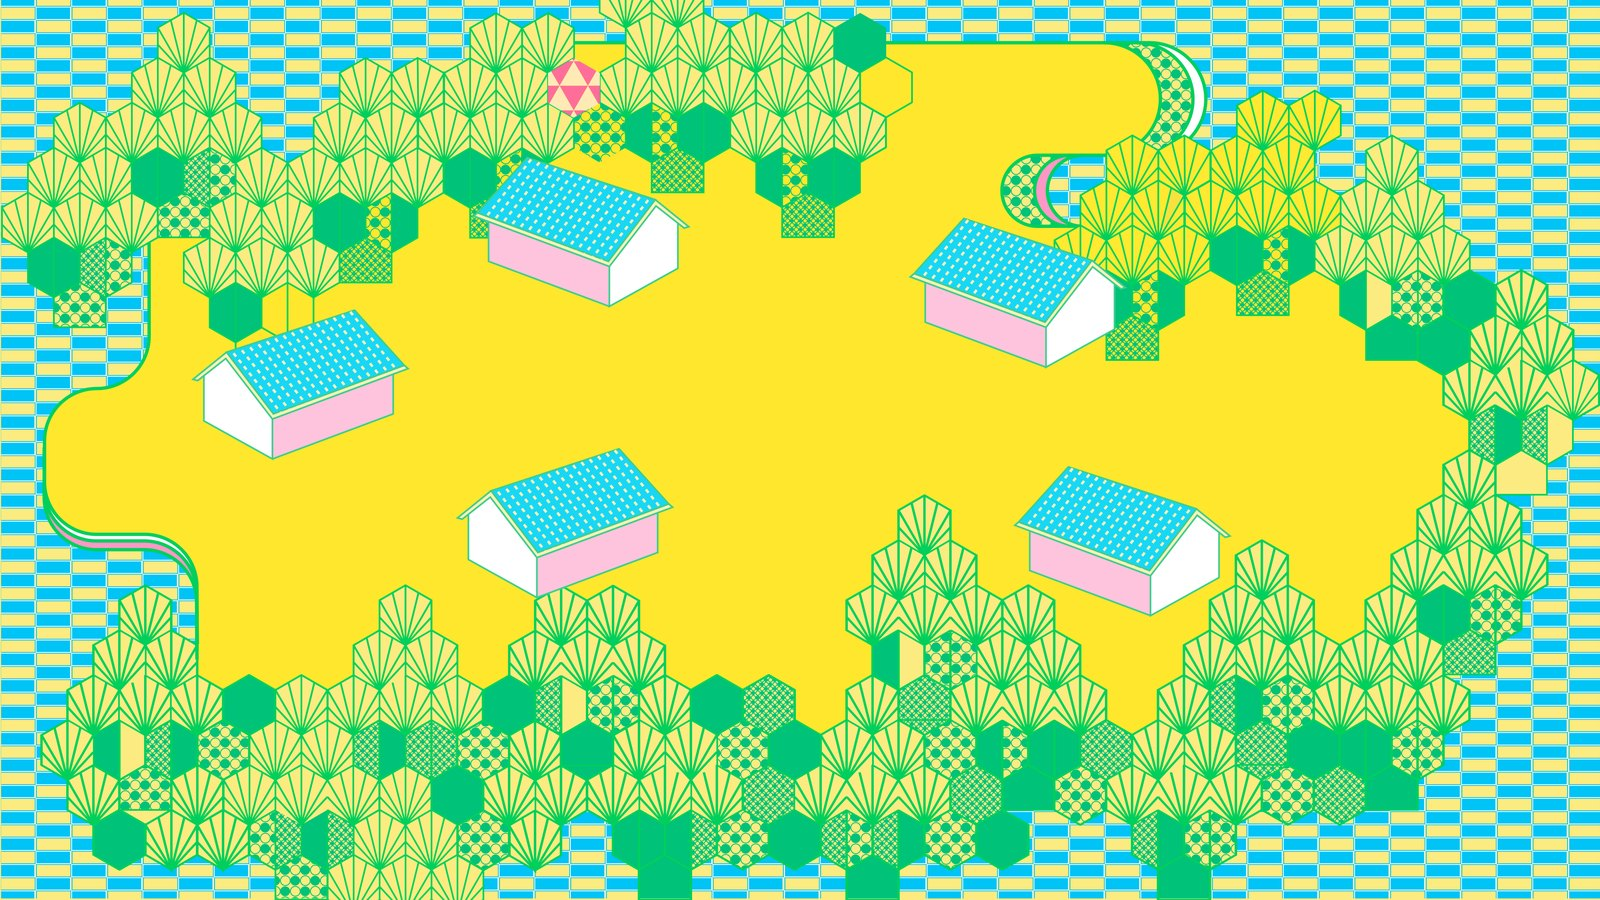
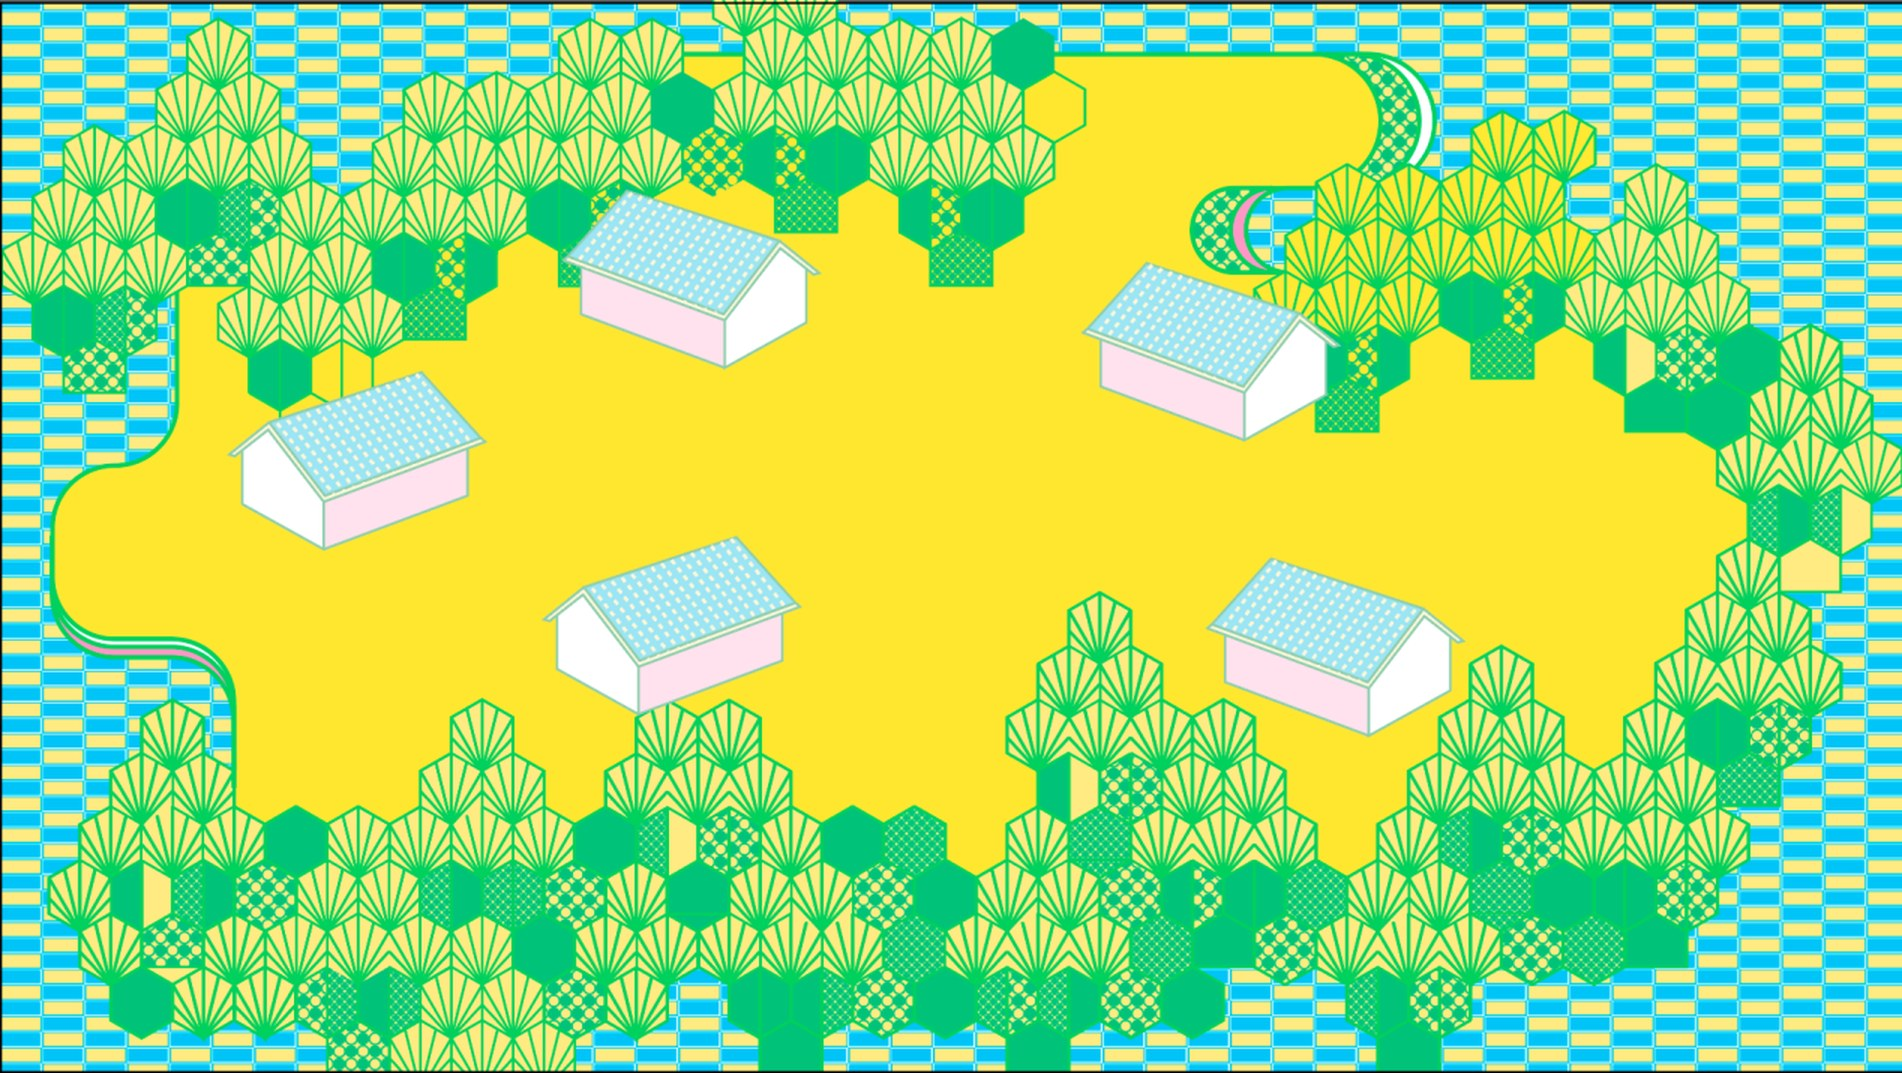
按修改意见调整：采药棋盘全屏化、圆球药泥、序章花纹底、村庄鲜艳背景
- 采药棋盘去掉整条顶栏，棋盘满屏显示，改为左上目标+右上计数轻量胶囊，骰子随参考稿右下角
- 药泥由绿色泥团改为蜂蜜色光泽圆球（白描边+碎屑点缀），加入罐后轻微浮动
- 序章保生大帝场景背景换为粉色四瓣花纹底
- 村庄场景（序章/剧情/结尾）换为鲜艳配色与蓝青条纹边框
- 素材版本号 v5，避免旧缓存

diff --git a/js/scenes/forage.js b/js/scenes/forage.js
@@ -1,10 +1,29 @@
 /* 交互 0：掷骰子采药棋盘（15 格蛇形山路；第 8 格遇虎、13 格遇龙、14 格出山） */
 const FORAGE_SX = W / 1440;                       // 参考稿 1440 宽 → 1334
-const FORAGE_DY = 20;                             // 整体下移，避开顶栏
+const FORAGE_DY = 0;                              // 参考稿即全屏棋盘，不再下移
 const cellPos = n => {                            // 参考稿坐标：x=254+col*232.5, y=[227,449,675]
   const row = Math.floor(n / 5), col = row === 1 ? 4 - n % 5 : n % 5;
   return { x: (254 + col * 232.5) * FORAGE_SX, y: ([227, 449, 675][row] - 60) * FORAGE_SX + FORAGE_DY };
 };
+/* 轻量状态胶囊：参考稿为满屏棋盘，不用整条顶栏，只留左上目标 + 右上计数 */
+function forageChip(scene) {
+  const g = scene.add.graphics().setDepth(900);
+  const label = T(scene, 30, 34, '', 20, '#fff8d0', { ox: 0, bold: true }).setDepth(901);
+  const step = T(scene, W - 26, 34, '', 18, '#fbf5a2', { ox: 1, bold: true, stroke: '#8a005e', strokeThickness: 4 }).setDepth(901);
+  const draw = () => {
+    g.clear();
+    const w = Math.min(W - 300, label.width + 36);
+    g.fillStyle(C.ink, 0.82); g.fillRoundedRect(14, 12, w, 44, 22);
+    g.lineStyle(3, C.magenta, 1); g.strokeRoundedRect(14, 12, w, 44, 22);
+    const sw = step.width + 30;
+    g.fillStyle(C.ink, 0.82); g.fillRoundedRect(W - sw - 14, 12, sw, 44, 22);
+    g.lineStyle(3, C.yellow, 1); g.strokeRoundedRect(W - sw - 14, 12, sw, 44, 22);
+  };
+  return {
+    setObjective(s) { label.setText(s); draw(); scene.tweens.add({ targets: label, alpha: { from: 0.25, to: 1 }, duration: 300 }); },
+    setStep(s) { step.setText(s); draw(); }
+  };
+}
 class ForageScene extends Phaser.Scene {
   constructor() { super('Forage'); }
   create() {
@@ -52,14 +71,14 @@ class ForageScene extends Phaser.Scene {
 
     // 骰子
     this.diceVal = 5;
-    this.dice = this.add.image(1252, 650, 'vdice5').setDisplaySize(118, 118).setDepth(60).setInteractive({ useHandCursor: true });
+    this.dice = this.add.image(1214, 646, 'vdice5').setDisplaySize(118, 118).setDepth(60).setInteractive({ useHandCursor: true });
     this.diceS = this.dice.scale;
     this.dice.on('pointerup', () => this.roll());
     this.tweens.add({ targets: this.dice, angle: { from: -4, to: 4 }, yoyo: true, repeat: -1, duration: 900, ease: 'Sine.inOut' });
-    this.diceHint = T(this, 1252, 724, '点骰子出发', 16, '#fff8d0', { bold: true, stroke: '#8a005e', strokeThickness: 4 });
+    this.diceHint = T(this, 1214, 720, '点骰子出发', 16, '#fff8d0', { bold: true, stroke: '#8a005e', strokeThickness: 4 });
     T(this, 84, 722, '路过草丛顺手采 · 停下才算进站', 16, '#fff8d0', { sans: true, stroke: '#8a005e', strokeThickness: 4, ox: 0 });
 
-    this.hud = hud(this, '第一幕 · 入山采药', '掷骰子前进，采齐山里的药草');
+    this.hud = forageChip(this);
     muteButton(this);
     this.refresh();
     this.walking = false;

diff --git a/index.html b/index.html
@@ -8,7 +8,7 @@
 <style>
   html,body{margin:0;padding:0;width:100%;height:100%;overflow:hidden;background:#2a0f2e;}
   body{
-    background:#2a0f2e url(assets/bg_pattern.jpg?v=4) center/cover no-repeat;
+    background:#2a0f2e url(assets/bg_pattern.jpg?v=5) center/cover no-repeat;
     font-family:"Heiti SC","STHeiti","SimHei","Source Han Sans SC","Noto Sans SC","Microsoft YaHei","PingFang SC",sans-serif;
     -webkit-user-select:none;user-select:none;-webkit-touch-callout:none;
   }
@@ -16,7 +16,7 @@
   #game{position:fixed;inset:0;padding:env(safe-area-inset-top) env(safe-area-inset-right) env(safe-area-inset-bottom) env(safe-area-inset-left);}
   #game canvas{touch-action:none;box-shadow:0 0 60px rgba(0,0,0,.55);}
   #rotate{position:fixed;inset:0;z-index:20;display:none;flex-direction:column;align-items:center;justify-content:center;
-    background:#ff9cd4 url(assets/bg_pattern.jpg?v=4) center/cover;color:#fff;text-align:center;}
+    background:#ff9cd4 url(assets/bg_pattern.jpg?v=5) center/cover;color:#fff;text-align:center;}
   #rotate .card{background:#004dfc;border:6px solid #ff00c8;border-radius:24px;padding:28px 34px;box-shadow:0 10px 0 #9a0078;}
   #rotate .phone{width:54px;height:92px;border:5px solid #fbf5a2;border-radius:12px;margin:0 auto 18px;animation:rot 2.2s ease-in-out infinite;}
   #rotate h2{margin:0 0 8px;font-size:26px;letter-spacing:.2em;color:#fbf5a2;}
@@ -30,19 +30,19 @@
 <div id="game"></div>
 <div id="rotate"><div class="card"><div class="phone"></div><h2>请横屏体验</h2><p>旋转手机后自动继续，进度不会丢失</p></div></div>
 <script src="lib/phaser.min.js"></script>
-<script src="js/core.js?v=4"></script>
-<script src="js/data.js?v=4"></script>
-<script src="js/scenes/boot.js?v=4"></script>
-<script src="js/scenes/title.js?v=4"></script>
-<script src="js/scenes/story.js?v=4"></script>
-<script src="js/scenes/act.js?v=4"></script>
-<script src="js/scenes/forage.js?v=4"></script>
-<script src="js/scenes/medicine.js?v=4"></script>
-<script src="js/scenes/market.js?v=4"></script>
-<script src="js/scenes/craft.js?v=4"></script>
-<script src="js/scenes/defense.js?v=4"></script>
-<script src="js/scenes/decorate.js?v=4"></script>
-<script src="js/scenes/ending.js?v=4"></script>
-<script src="js/main.js?v=4"></script>
+<script src="js/core.js?v=5"></script>
+<script src="js/data.js?v=5"></script>
+<script src="js/scenes/boot.js?v=5"></script>
+<script src="js/scenes/title.js?v=5"></script>
+<script src="js/scenes/story.js?v=5"></script>
+<script src="js/scenes/act.js?v=5"></script>
+<script src="js/scenes/forage.js?v=5"></script>
+<script src="js/scenes/medicine.js?v=5"></script>
+<script src="js/scenes/market.js?v=5"></script>
+<script src="js/scenes/craft.js?v=5"></script>
+<script src="js/scenes/defense.js?v=5"></script>
+<script src="js/scenes/decorate.js?v=5"></script>
+<script src="js/scenes/ending.js?v=5"></script>
+<script src="js/main.js?v=5"></script>
 </body>
 </html>

diff --git a/js/scenes/medicine.js b/js/scenes/medicine.js
@@ -89,8 +89,8 @@ class MedicineScene extends Phaser.Scene {
     this.mortarHi = this.add.graphics();
     this.fxStatus = T(this, 800, 424, '', 18, '#ffffff', { bold: true, stroke: '#b0487c', strokeThickness: 4 });
     T(this, 560, 716, '', 18, '#ffffff', { stroke: '#b0487c', strokeThickness: 4 }).setName('fxHint');
-    // 药泥
-    this.mud = this.add.image(800, 420, 'tool_mud').setDisplaySize(135, 90).setVisible(false).setAlpha(0).setDepth(50);
+    // 药泥（圆球）
+    this.mud = this.add.image(800, 420, 'tool_mud').setDisplaySize(190, 127).setVisible(false).setAlpha(0).setDepth(50);
     this.mud.setInteractive({ draggable: true, useHandCursor: true });
     Object.assign(this.mud, { kind: 'fxmud', home: { x: 800, y: 420 } });
     this.input.setDraggable(this.mud);
@@ -144,6 +144,7 @@ class MedicineScene extends Phaser.Scene {
     this.fxSelected = [];
     this.resetRack();
     this.fxPhase = 'select';
+    this.tweens.killTweensOf(this.mud);
     this.mud.setVisible(false).setAlpha(0);
     this.setForgeStatus('');
     this.renderCards(true);
@@ -155,6 +156,7 @@ class MedicineScene extends Phaser.Scene {
   bindForgeDrag() {
     Object.values(this.rack).forEach(c => this.input.setDraggable(c));
     this.input.on('dragstart', (p, o) => {
+      this.tweens.killTweensOf(o);
       if (o.kind === 'fxherb' && !o.used) {
         o.setDepth(1000);
         this.tweens.add({ targets: o, scale: 1.1, duration: 90 });
@@ -227,7 +229,9 @@ class MedicineScene extends Phaser.Scene {
       g.remove();
       this.fxPhase = 'mud';
       this.mud.setVisible(true).setPosition(800, 540).setAlpha(0);
-      this.tweens.add({ targets: this.mud, y: 420, alpha: 1, duration: 700, ease: 'Quad.out' });
+      this.tweens.add({ targets: this.mud, y: 420, alpha: 1, duration: 700, ease: 'Quad.out', onComplete: () => {
+        this.tweens.add({ targets: this.mud, y: 408, yoyo: true, repeat: -1, duration: 900, ease: 'Sine.inOut' });
+      } });
       this.setForgeHint('把药泥拖进左边的煎药罐');
       this.busy = false;
     });

diff --git a/js/scenes/boot.js b/js/scenes/boot.js
@@ -1,5 +1,5 @@
 /* 素材版本号：替换素材后改这里，避免浏览器读到旧缓存 */
-const ASSET_VERSION = 4;
+const ASSET_VERSION = 5;
 /* 载入素材 + 生成程序化贴图 */
 class BootScene extends Phaser.Scene {
   constructor() { super('Boot'); }
@@ -8,7 +8,7 @@ class BootScene extends Phaser.Scene {
     const t = T(this, W / 2, H / 2 - 40, '龙虎灯 · 载入中', 28, '#fbf5a2');
     this.load.on('progress', p => { g.clear(); g.fillStyle(C.ink, 1); g.fillRoundedRect(W / 2 - 200, H / 2, 400, 18, 9); g.fillStyle(C.magenta, 1); g.fillRoundedRect(W / 2 - 200, H / 2, 400 * p, 18, 9); });
     const A = 'assets/', V = '?v=' + ASSET_VERSION, V2 = 'assets/v2/';
-    ['bg_pharmacy', 'bg_pattern', 'bg_village', 'bg_village_dim', 'bg_village_night', 'bg_board'].forEach(k => this.load.image(k, A + k + '.jpg' + V));
+    ['bg_pharmacy', 'bg_shrine', 'bg_pattern', 'bg_village', 'bg_village_dim', 'bg_village_night', 'bg_board'].forEach(k => this.load.image(k, A + k + '.jpg' + V));
     ['char_dragon', 'char_elder', 'char_tiger', 'char_baosheng', 'head_dragon', 'head_elder', 'head_tiger', 'head_baosheng',
       'book_slips', 'scrolls', 'fan', 'stove', 'mortar', 'pattern_dragon', 'pattern_tiger', 'card_dragon', 'card_tiger',
       'ghost', 'wenshen', 'fig_dragon', 'fig_tiger', 'fig_carp']

diff --git a/js/scenes/story.js b/js/scenes/story.js
@@ -18,12 +18,12 @@ const STORIES = {
   prologue: {
     title: '序章 · 灯与药香',
     shots: [
-      { bg: 'bg_pharmacy', build(s) { actor(s, 'char_baosheng', W / 2, H + 10, 640, 'up'); },
+      { bg: 'bg_shrine', build(s) { actor(s, 'char_baosheng', W / 2, H + 10, 640, 'up'); },
         lines: [{ who: 'narr', text: '闽南白礁，有位医者叫吴夲。他一生悬壶行医、救人无数，人们尊称他——“保生大帝”。' },
                 { who: 'wu', text: '徒儿，你看村里屋檐下的灯，都暗了。暑气不退，病气却一家一家地传……' },
                 { who: 'wu', text: '药庐里的存药快见底了。备好药囊，随我上山采药去。听说山路不太平，路上多留心。' }] },
       { bg: 'bg_village_dim', build(s) {
-          s.add.rectangle(W / 2, H / 2, W, H, 0x2a1030, 0.25);
+          s.add.rectangle(W / 2, H / 2, W, H, 0x2a1030, 0.08);
         },
         lines: [{ who: 'narr', text: '山下的村子，家家闭户。老人们在门后咳嗽，孩子们烧得小脸通红，都在等一锅热热的汤药。' },
                 { who: 'me', text: '师父，咱们快些走！' }] }
